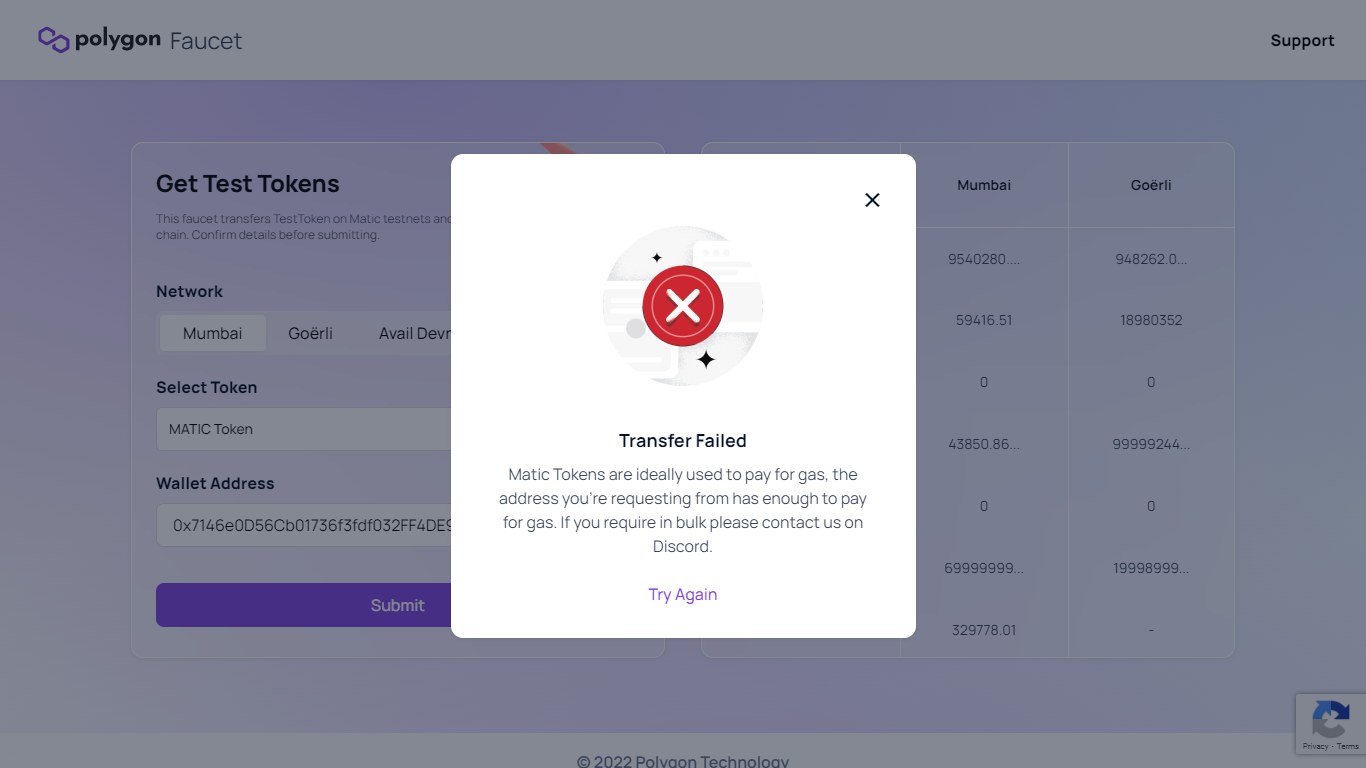
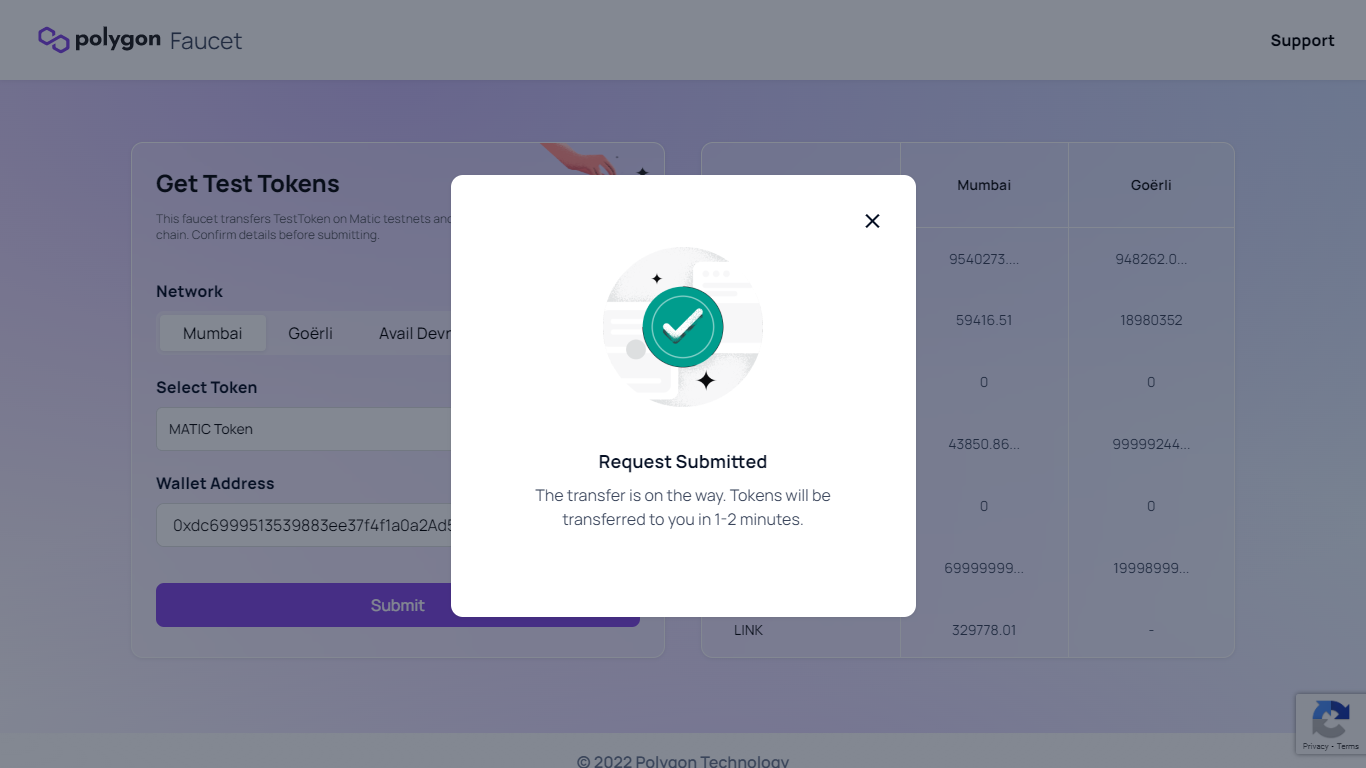
done

diff --git a/src/main.ts b/src/main.ts
@@ -1,8 +1,9 @@
 import puppeteer from "puppeteer";
+declare let window: any
 
-(async () => {
+const mumbaiFaucet = async (address: string) => {
     const browser = await puppeteer.launch({
-        headless: false,
+        headless: "chrome",
         args: [
             "--disable-extensions"],
         defaultViewport: null,
@@ -12,51 +13,43 @@ import puppeteer from "puppeteer";
     await page.setViewport({ width: 1366, height: 768 });
     await page.goto('https://faucet.polygon.technology/', {
         waitUntil: 'networkidle2',
-    }).then(async () => {
-
-        console.log('wait write address')
-        await timeout(2000)
-        await page.type("#app > div > div > div.index > div > div > div:nth-child(1) > div > div > div > div:nth-child(6) > div > div.d-flex.flex-column > div > input[type=text]", "0x7146e0D56Cb01736f3fdf032FF4DE983924Ec135")
-
-
-        console.log('wait address validation')
-        await timeout(2000)
-        await page.click("#app > div > div > div.index > div > div > div:nth-child(1) > div > div > div > div:nth-child(7) > div > div > button")
-
-        console.log('wait claim faucet')
-        await timeout(2000)
-        await page.click("#app > div > div > div.index > div > div > div:nth-child(1) > div > div.section.position-absolute > div.modal.show > div > div > div:nth-child(2) > div.ps-t-12 > div > button")
-
-
-        console.log('wait take screenshoot')
-        await timeout(2000)
-        await page.screenshot({ path: 'example.png' });
-
-
-        console.log('wait close browser')
-        await timeout(2000)
-        await browser.close()
     })
 
-
-    // await setTimeout(async () => {
-
-    // 
-
-    // setTimeout(async () => {
-    //     
-    // }, 1000);
-
-    // setTimeout(async () => {
-    //     console.info("DONE")
-    //     await page.screenshot({ path: 'example.png' });
-    //     await browser.close()
-    // }, 5000);
-    // }, 4000);
+    console.log('wait write address')
+    await timeout(2000)
+    await page.type("#app > div > div > div.index > div > div > div:nth-child(1) > div > div > div > div:nth-child(6) > div > div.d-flex.flex-column > div > input[type=text]", address)
 
 
-})()
+    console.log('wait address validation')
+    await timeout(2000)
+    await page.click("#app > div > div > div.index > div > div > div:nth-child(1) > div > div > div > div:nth-child(7) > div > div > button")
+
+    console.log('wait claim faucet')
+    await timeout(2000)
+    await page.click("#app > div > div > div.index > div > div > div:nth-child(1) > div > div.section.position-absolute > div.modal.show > div > div > div:nth-child(2) > div.ps-t-12 > div > button")
+
+
+    console.log('wait take screenshoot')
+    await timeout(2000)
+    await page.screenshot({ path: 'example.png' });
+
+
+    console.log('wait close browser')
+    await timeout(2000)
+    const found = await page.evaluate(() => window.find("The transfer is on the way. Tokens will be transferred to you in 1-2 minutes."));
+    await browser.close()
+
+
+    return {
+        success: found ? true : false
+    }
+}
 
 function timeout(ms: number) {
     return new Promise(resolve => setTimeout(resolve, ms));
 }
+
+mumbaiFaucet("0xdc6999513539883ee37f4f1a0a2Ad573812B6A68")
+    .then(status => {
+        console.log('Faucet status = ', status)
+    })
